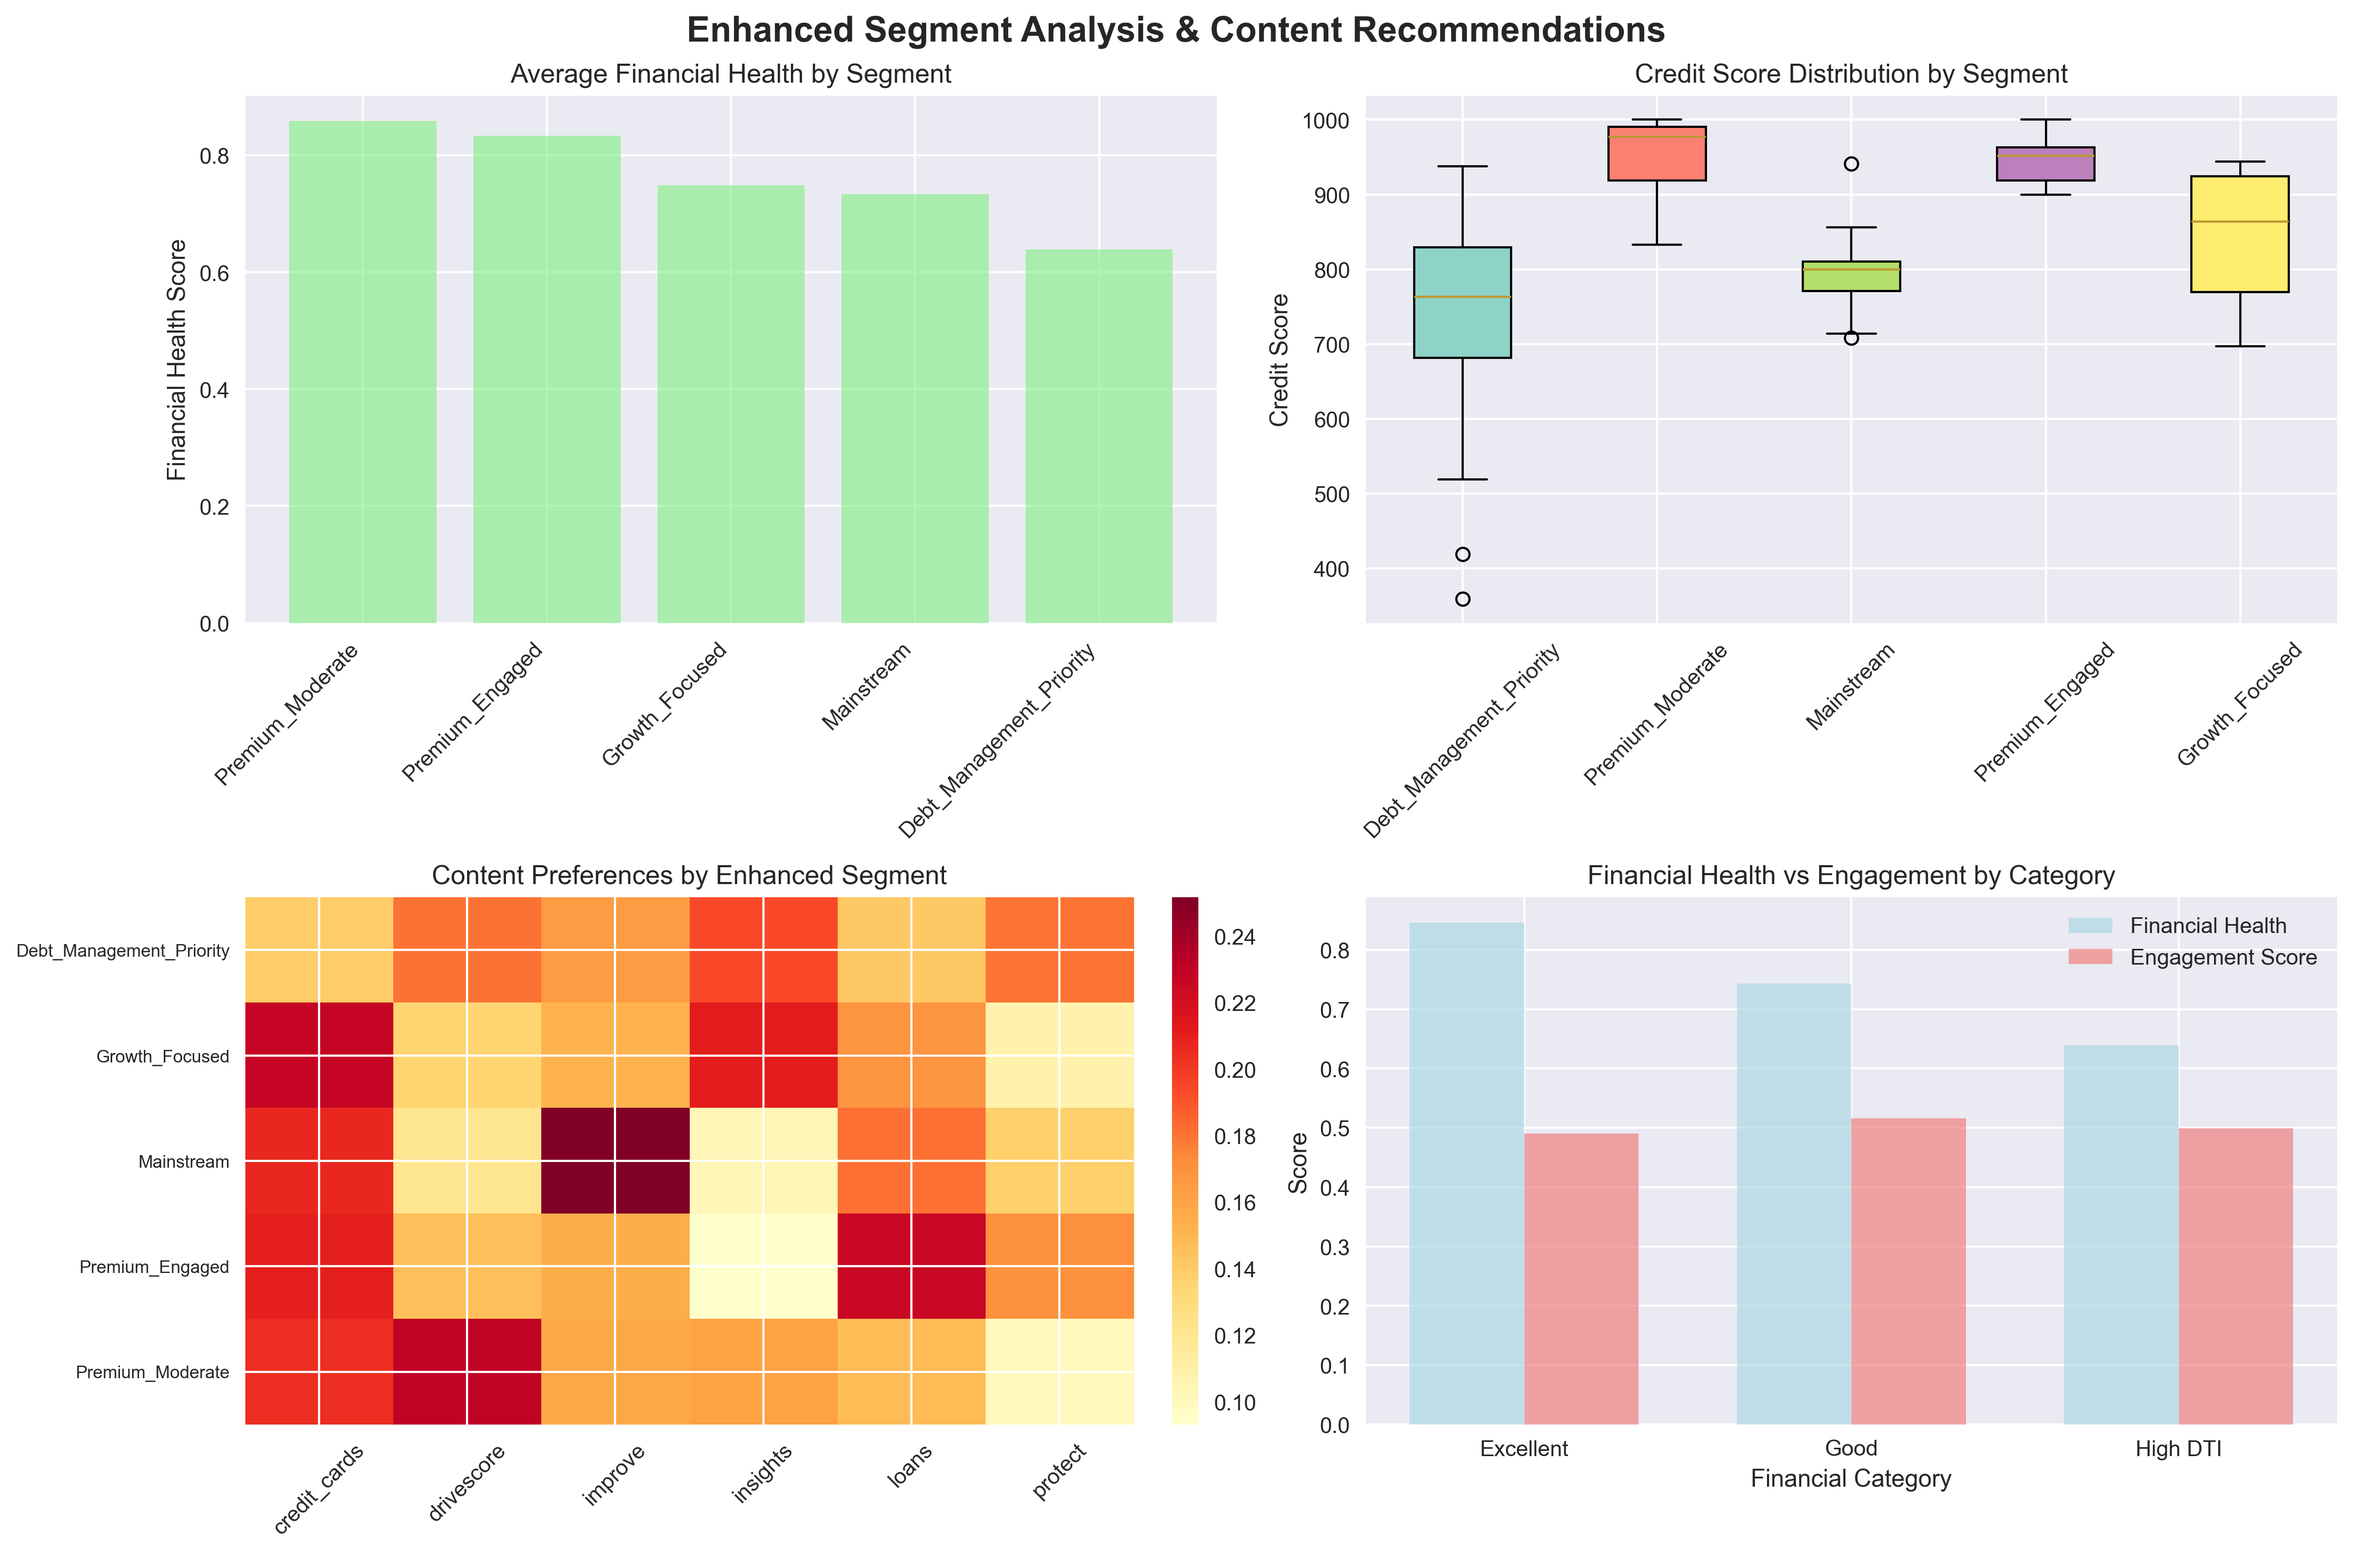
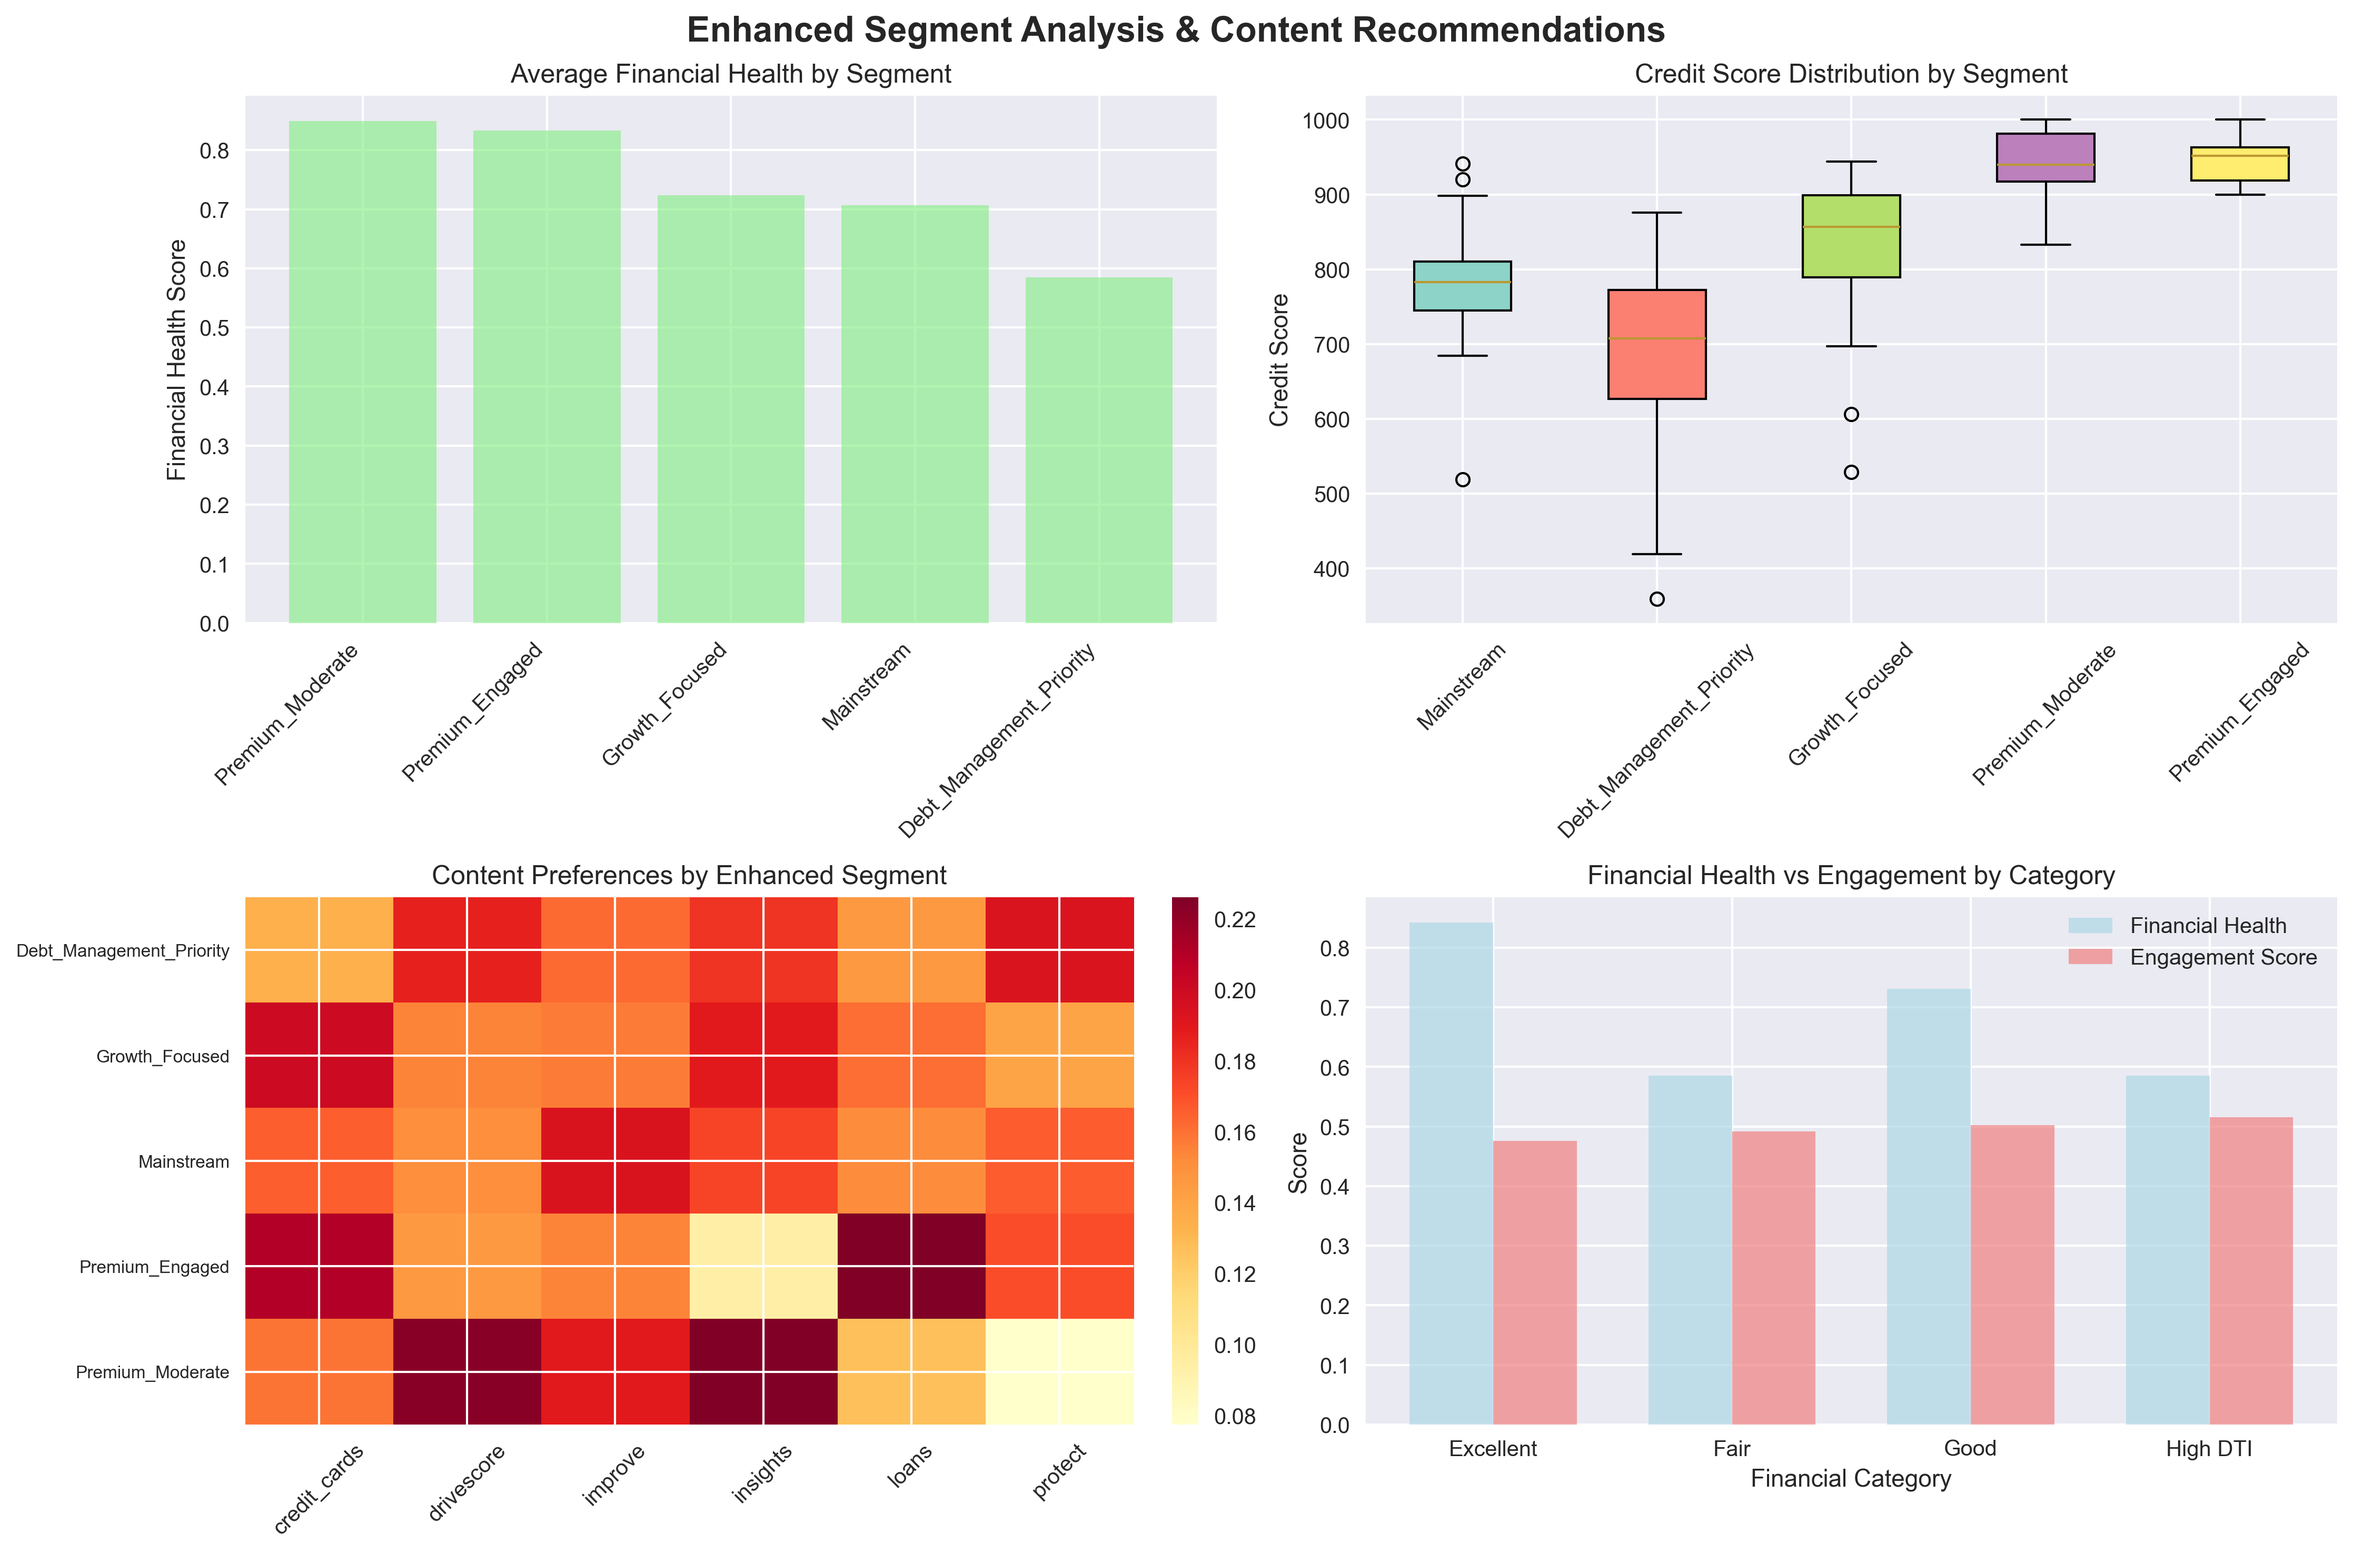
Correct DTI inconsistency

diff --git a/enhanced_financial_recommender.py b/enhanced_financial_recommender.py
@@ -89,7 +89,7 @@ class FinanciallyAwareRecommender:
         
         # Show categorization thresholds used
         print("\nAbsolute Categorization Thresholds Applied:")
-        print("High DTI: DTI >= 35% (PRIORITY: Critical debt management needed - overrides other categories)")
+        print("High DTI: DTI >= 50% (PRIORITY: Critical debt management needed - overrides other categories)")
         print("Excellent: Score >= 0.8 (Strong financial health across all metrics)")
         print("Good: Score >= 0.65 (Above average financial health)")
         print("Fair: Score >= 0.45 (Some concerns but manageable)")
@@ -559,8 +559,8 @@ class FinanciallyAwareRecommender:
         """Identify financial priorities for a user"""
         priorities = []
         
-        # High DTI is the top priority
-        if user_data['dti_ratio'] >= 0.35:
+        # High DTI (≥50%) is the top priority - UNIFORM THRESHOLD
+        if user_data['dti_ratio'] >= 0.50:
             priorities.append("URGENT_DTI_REDUCTION")
         
         if user_data['credit_score'] < 650:
@@ -660,7 +660,7 @@ class FinanciallyAwareRecommender:
         
         Parameters:
         - ascending: If True, sort from lowest to highest DTI. If False, highest to lowest (default)
-        - min_dti: Filter to only show users with DTI >= this value (e.g., 0.35 for high DTI)
+        - min_dti: Filter to only show users with DTI >= this value (e.g., 0.50 for high DTI)
         - top_n: Show only the top N users (e.g., top 10 highest DTI)
         - show_details: Print detailed analysis and summary
         
@@ -691,7 +691,7 @@ class FinanciallyAwareRecommender:
         # Add percentage format for easier reading
         dti_analysis['dti_percentage'] = dti_analysis['dti_ratio'] * 100
         
-        # Sort by DTI ratio
+        # Sort by DTI ratio (ascending=False means highest DTI first)
         dti_sorted = dti_analysis.sort_values('dti_ratio', ascending=ascending)
         
         # Apply filters if specified
@@ -720,17 +720,17 @@ class FinanciallyAwareRecommender:
             print(f"  Highest DTI: {dti_sorted['dti_ratio'].max():.1%}")
             print(f"  Lowest DTI: {dti_sorted['dti_ratio'].min():.1%}")
             
-            # DTI category breakdown
+            # DTI category breakdown - UNIFORM 50% THRESHOLD FOR "HIGH DTI"
             print(f"\nDTI Risk Categories:")
-            critical_dti = (dti_sorted['dti_ratio'] >= 0.50).sum()
-            high_dti = ((dti_sorted['dti_ratio'] >= 0.35) & (dti_sorted['dti_ratio'] < 0.50)).sum()
+            high_dti = (dti_sorted['dti_ratio'] >= 0.50).sum()  # HIGH DTI = 50%+
+            elevated_dti = ((dti_sorted['dti_ratio'] >= 0.35) & (dti_sorted['dti_ratio'] < 0.50)).sum()
             moderate_dti = ((dti_sorted['dti_ratio'] >= 0.25) & (dti_sorted['dti_ratio'] < 0.35)).sum()
-            low_dti = (dti_sorted['dti_ratio'] < 0.25).sum()
+            healthy_dti = (dti_sorted['dti_ratio'] < 0.25).sum()
             
-            print(f"  🚨 Critical (≥50%): {critical_dti} users ({critical_dti/analyzed_users*100:.1f}%)")
-            print(f"  ⚠  High (35-49%): {high_dti} users ({high_dti/analyzed_users*100:.1f}%)")
+            print(f"  🚨 High DTI (≥50%): {high_dti} users ({high_dti/analyzed_users*100:.1f}%)")
+            print(f"  ⚠  Elevated (35-49%): {elevated_dti} users ({elevated_dti/analyzed_users*100:.1f}%)")
             print(f"  ⚡ Moderate (25-34%): {moderate_dti} users ({moderate_dti/analyzed_users*100:.1f}%)")
-            print(f"  ✅ Healthy (<25%): {low_dti} users ({low_dti/analyzed_users*100:.1f}%)")
+            print(f"  ✅ Healthy (<25%): {healthy_dti} users ({healthy_dti/analyzed_users*100:.1f}%)")
             
             # Financial category correlation
             print(f"\nFinancial Category Distribution:")

diff --git a/dti_analysis_example.py b/dti_analysis_example.py
@@ -13,9 +13,9 @@ print("\n📊 EXAMPLE 1: All users sorted by DTI (highest first)")
 print("-" * 50)
 all_users_by_dti = recommender.sort_users_by_dti()
 
-print("\n📊 EXAMPLE 2: Only show High DTI users (≥35%)")
+print("\n📊 EXAMPLE 2: Only show High DTI users (≥50%)")
 print("-" * 50) 
-high_dti_users = recommender.sort_users_by_dti(min_dti=0.35)
+high_dti_users = recommender.sort_users_by_dti(min_dti=0.5)
 
 print("\n📊 EXAMPLE 3: Top 5 worst DTI cases")
 print("-" * 50)
@@ -37,7 +37,7 @@ else:
 print("\n✅ DTI Analysis Complete!")
 print("💡 You can also access the returned DataFrames for further analysis:")
 print("   - all_users_by_dti: Full dataset sorted by DTI")
-print("   - high_dti_users: Only users with DTI ≥35%") 
+print("   - high_dti_users: Only users with DTI ≥50%") 
 print("   - worst_dti_users: Top 5 highest DTI users")
 print("   - best_dti_users: Top 10 lowest DTI users")
 print("   - critical_dti: Users with DTI ≥50%") 

diff --git a/README.md b/README.md
@@ -419,6 +419,11 @@ Premium_Moderate                    0.85  0.04       940.44  833  1000      0.17
 Recovery_Engaged                    0.41  0.06       475.00  359   591      1.09  0.04  27447.66  27447.66             0.63
 Recovery_Moderate                   0.41   NaN       419.00  419   419      0.50   NaN  35849.77  35849.77             0.44
 
-Enhanced recommendations saved to 'enhanced_financial_recommendations.csv'
+With DTI incorporated (threshold is 50%)
+Good: 45
+High DTI: 34
+Excellent: 16
+Fair: 5
+
 
 
